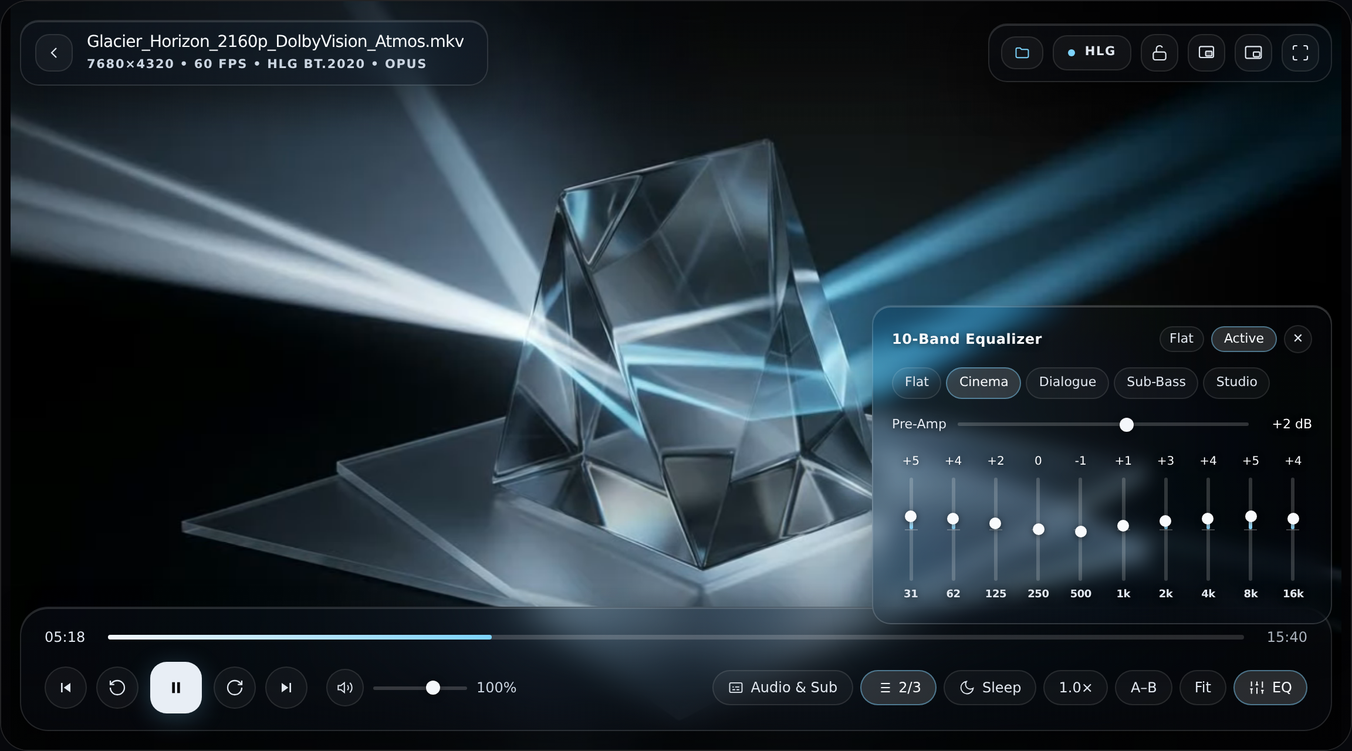
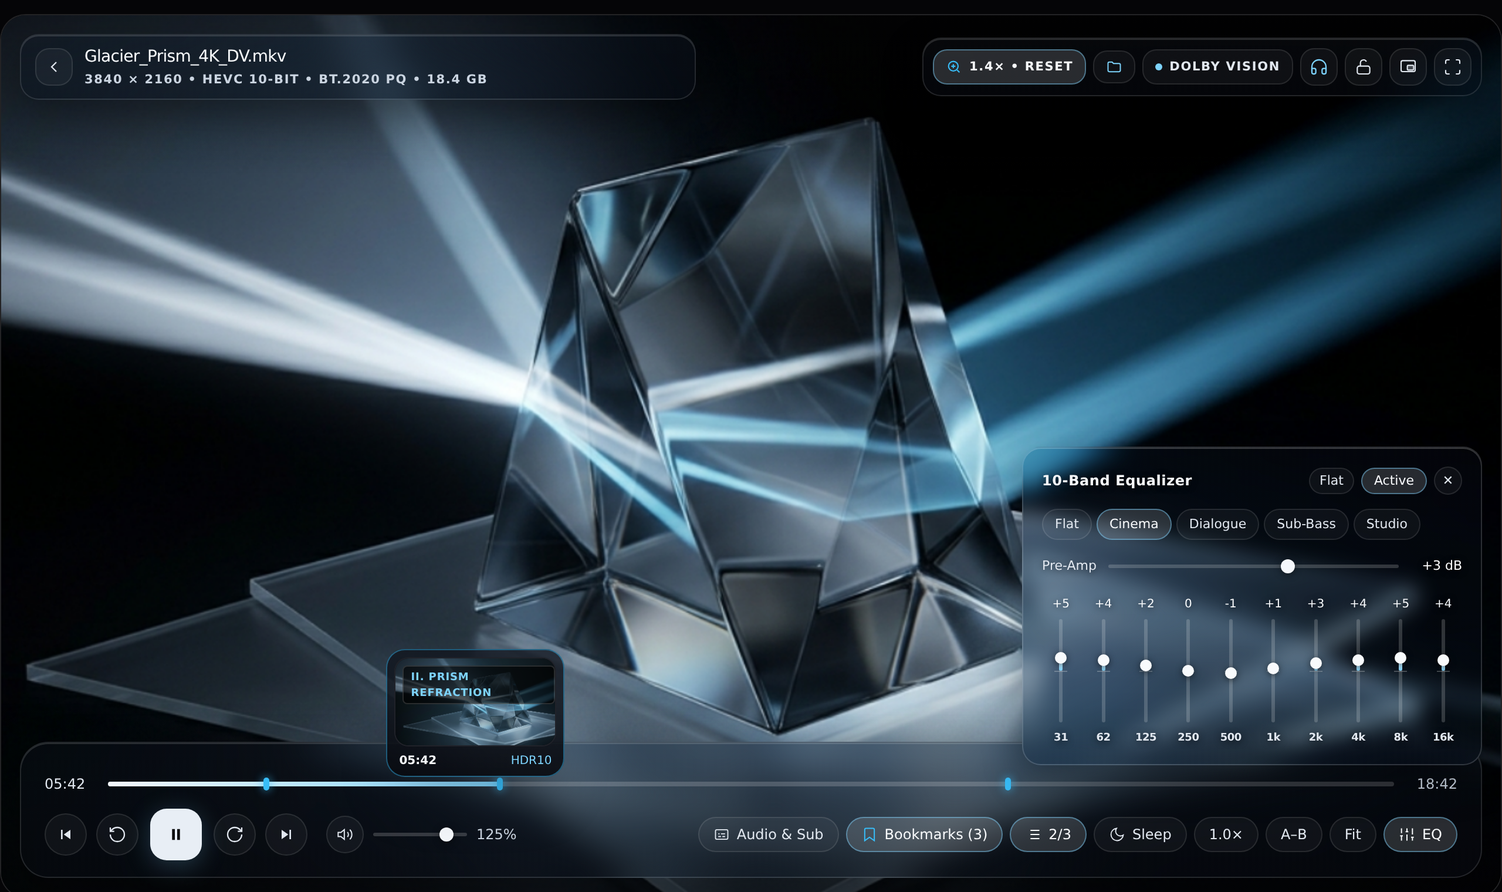
docs: update README and refresh screenshots for v1.1.0

diff --git a/README.md b/README.md
@@ -12,105 +12,122 @@
 [![Latest Release](https://img.shields.io/github/v/release/petrosvassiliou/lumina?label=Release&color=0EA5E9)](https://github.com/petrosvassiliou/lumina/releases/latest)
 [![Platform](https://img.shields.io/badge/Android-8.0%2B%20(API%2026--35)-38BDF8)](https://github.com/petrosvassiliou/lumina/releases/latest)
 [![Engine](https://img.shields.io/badge/VideoLAN-libVLC%204.0-7DD3FC)](https://code.videolan.org/videolan/libvlc-android)
-[![Play Protect](https://img.shields.io/badge/Google%20Play%20Protect-100%25%20Compliant-34D399)](PLAY_STORE_PUBLISHING.md)
+[![Play Protect](https://img.shields.io/badge/Google%20Play%20Protect-100%25%20Verified-34D399)](PRIVACY_POLICY.md)
 
 </div>
 
 ---
 
-**Lumina** (`app.lumina.player`) is a universal, hardware-accelerated HDR media player engineered with **Material 3 Expressive** (*"OLED Smoked Crystal"*) aesthetics and powered by **VideoLAN libVLC 4.0** (`org.videolan.android:libvlc-all:4.0.0-eap29`).
+**Lumina** (`app.lumina.player`) is a universal, hardware-accelerated HDR media player crafted with **Material 3 Expressive** (*"OLED Smoked Crystal"*) design and powered by **VideoLAN libVLC 4.0** (`org.videolan.android:libvlc-all:4.0.0-eap29`).
 
-Designed from the ground up for **Android Smartphones**, **Foldables**, and **Googlebook OS** (desktop/laptop multi-window Android environments), Lumina delivers true wide-color HDR10 / HLG / Dolby Vision playback, lossless 10-band biquad audio processing, local Scoped Storage & SAF folder browsing, and LAN/NAS streaming — with **zero ads, zero telemetry, and 100% Google Play Protect compliance**.
+Built from the ground up for **Android Smartphones**, **Foldables** (**Lumina Tabletop Mode**), and **Googlebook OS** laptops/desktops, Lumina delivers wide-color HDR10 / HDR10+ / HLG / Dolby Vision playback, lossless 10-band biquad audio processing, custom `.m3u` / `.m3u8` playlists, recursive local SAF & LAN/NAS share browsing, and direct **GitHub Releases signed APK updates** — with **zero ads, zero telemetry, and 100% Google Play Protect sideloading compliance**.
 
 ---
 
-## Downloads
+## Downloads (`v1.1.0`)
 
-Grab the latest production-signed APKs directly from **[GitHub Releases (`v1.1.0`)](https://github.com/petrosvassiliou/lumina/releases/latest)**:
+Download production-signed APKs directly from **[GitHub Releases (`v1.1.0`)](https://github.com/petrosvassiliou/lumina/releases/latest)**. Once installed, Lumina can check for and download future signed per-ABI updates directly from **Settings → Check GitHub Releases**.
 
 | Package | Target Devices | Notes |
 | :--- | :--- | :--- |
-| **[`Lumina-v1.1.0-arm64-v8a.apk`](https://github.com/petrosvassiliou/lumina/releases/download/v1.1.0/Lumina-v1.1.0-arm64-v8a.apk)** | Modern Android Smartphones, Foldables & Tablets (64-bit ARM) | **Recommended** for almost all phones & tablets |
-| **[`Lumina-v1.1.0-universal.apk`](https://github.com/petrosvassiliou/lumina/releases/download/v1.1.0/Lumina-v1.1.0-universal.apk)** | All Architectures (`arm64-v8a`, `armeabi-v7a`, `x86_64`, `x86`) | **Universal installer** — works on every device |
-| **[`Lumina-v1.1.0-x86_64.apk`](https://github.com/petrosvassiliou/lumina/releases/download/v1.1.0/Lumina-v1.1.0-x86_64.apk)** | **Googlebook OS** Laptops, Desktops & ChromeOS/PC Emulators | Native 64-bit Intel / AMD hardware decoding |
-| **[`Lumina-v1.1.0-armeabi-v7a.apk`](https://github.com/petrosvassiliou/lumina/releases/download/v1.1.0/Lumina-v1.1.0-armeabi-v7a.apk)** | Legacy 32-bit ARM Android TVs & Older Devices | Lightweight 32-bit ARM build |
-| **[`Lumina-v1.1.0-x86.apk`](https://github.com/petrosvassiliou/lumina/releases/download/v1.1.0/Lumina-v1.1.0-x86.apk)** | Legacy 32-bit Intel / x86 Devices | 32-bit x86 build |
+| **[`Lumina-v1.1.0-arm64-v8a.apk`](https://github.com/petrosvassiliou/lumina/releases/download/v1.1.0/Lumina-v1.1.0-arm64-v8a.apk)** | Modern Android Smartphones, Foldables & Tablets (64-bit ARM) | **Recommended** for almost all phones, foldables & tablets |
+| **[`Lumina-v1.1.0-x86_64.apk`](https://github.com/petrosvassiliou/lumina/releases/download/v1.1.0/Lumina-v1.1.0-x86_64.apk)** | **Googlebook OS** Laptops, Desktops & x86_64 Systems | **Recommended** for Intel / AMD Googlebook OS devices |
+| **[`Lumina-v1.1.0-universal.apk`](https://github.com/petrosvassiliou/lumina/releases/download/v1.1.0/Lumina-v1.1.0-universal.apk)** | All Architectures (`arm64-v8a`, `armeabi-v7a`, `x86_64`, `x86`) | **Universal installer** — single APK for every Android device |
+| **[`Lumina-v1.1.0-armeabi-v7a.apk`](https://github.com/petrosvassiliou/lumina/releases/download/v1.1.0/Lumina-v1.1.0-armeabi-v7a.apk)** | Legacy 32-bit ARM Android TVs & Older Devices | Compact 32-bit ARM build |
+| **[`Lumina-v1.1.0-x86.apk`](https://github.com/petrosvassiliou/lumina/releases/download/v1.1.0/Lumina-v1.1.0-x86.apk)** | Legacy 32-bit Intel / x86 Devices | Compact 32-bit x86 build |
+| **[`SHA256SUMS.txt`](https://github.com/petrosvassiliou/lumina/releases/download/v1.1.0/SHA256SUMS.txt)** | Cryptographic Checksums | Verify APK integrity (`v1`–`v4` APK signatures) |
+
+---
+
+## What's New in `v1.1.0`
+
+- **128 MB Persistent Poster Cache & Live 16:9 Scrub Frame Previews:** Extracts representative HDR/SDR poster thumbnails (skipping black `0:00` intro frames) across **Continue Watching**, **All Videos**, and **Folders**, plus a debounced **16:9 Timeline Scrub & Pointer-Hover Frame Preview** bubble above the seek bar.
+- **Interactive SMB / UPnP / DLNA / FTP Folder Browser & Hardware AES-256 Vault:** Recursively browse NAS shares and media servers with path breadcrumbs (`Media.parseAsync`), backed by hardware `AndroidKeyStore` `AES-256-GCM` credential persistence (`LuminaCredentialVault`).
+- **Custom Playlists (`.m3u` / `.m3u8` Import & Export) + Scene Bookmarks (`B`):** Create, rename, shuffle, import, and export standard UTF-8 `.m3u` / `.m3u8` playlists via SAF, save the active playback queue in one tap, and drop per-video **Scene Bookmarks** with cyan timeline markers.
+- **Interactive `1.0×–4.0×` Video Zoom & Pan + Docked Background Audio Mini-Bar:** Pinch-to-zoom on touchscreens/trackpads, `Ctrl + Mouse Wheel`, or `+` / `-` / `0` on Googlebook OS with a one-tap reset pill, plus continuous background audio playback with a Smoked-Crystal **Now Playing Mini-Bar** docked in the library.
+- **Hardened Playback Engine & Googlebook OS Windowing (`v1.0.4`–`v1.0.10`):**
+  - Automatic 3-tier hardware-to-software decoder fallback (`FULL` → `DECODE` → `SW`) for 10-bit H.264 (`Hi10P`) and non-standard MP4 files so playback never stalls on a blank surface.
+  - Deterministic post-EOF timeline scrubbing, `Space` / Play restart from any seek offset, rapid track switching, and crash-free player-to-library surface detachment.
+  - Native Googlebook OS freeform window fullscreen (`WindowInsetsControllerCompat` + immersive desktop state) and the **Smoked-Crystal Play Prism** brand mark.
 
 ---
 
 ## Screenshots
 
-### Googlebook OS & Desktop Cinema HUD — 10-Band Hardware Equalizer
-![Googlebook OS Cinema Player & 10-Band Equalizer](docs/screenshots/01-googlebook-player-eq.png)
-*Unobstructed HDR10/BT.2020 video surface with sheer Smoked Crystal floating popovers (`Cinema` 10-band biquad EQ + `150%` hardware gain boost) — zero full-screen scrims.*
+### Googlebook OS & Desktop Cinema HUD — 10-Band EQ, Scrub Preview & Video Zoom
+![Googlebook OS Cinema Player, Scrub Preview & 10-Band Equalizer](docs/screenshots/01-googlebook-player-eq.png)
+*Unobstructed BT.2020 HDR10 / Dolby Vision stage with live 16:9 timeline scrub frame preview, cyan scene bookmark ticks, `1.4×` zoom reset pill, and sheer Smoked Crystal `Cinema` 10-band biquad EQ — zero full-screen scrims.*
 
-### Live Glass Subtitles, Audio/Sub Sync & HDR Pipeline
-![Live Glass Subtitles & Audio/Sub Sync](docs/screenshots/02-player-subtitles-hdr.png)
-*External `.srt` / `.vtt` / `.ass` / `.ssa` subtitle loading via SAF, live `±50 ms` audio & subtitle sync controls, configurable font scale, and translucent Glass caption pills.*
+### Per-Video Scene Bookmarks (`B`), Live Glass Subtitles & Zoom Controls
+![Scene Bookmarks, Glass Subtitles & HDR Pipeline](docs/screenshots/02-player-subtitles-hdr.png)
+*Mark key scenes with `B`, jump directly from the sheer Scene Bookmarks popover or cyan timeline ticks, and pair external `.srt` / `.vtt` / `.ass` / `.ssa` subtitles with translucent Glass styling.*
 
 ### Adaptive Multi-Posture: Foldable Tabletop Mode & Smartphone Portrait
 | **Foldable Tabletop Mode (`FoldingFeature`)** | **Smartphone Portrait + Sleep Timer** |
 | :---: | :---: |
 | ![Foldable Tabletop Mode](docs/screenshots/03-foldable-tabletop.png) | ![Smartphone Portrait Mode](docs/screenshots/04-smartphone-portrait.png) |
-| *Automatically pins unobstructed HDR video above the physical hinge crease and places transport controls + Up Next queue on the lower deck.* | *One-handed edge-to-edge OLED layout with vertical brightness/volume gestures, Cinema Touch Lock, and live Sleep Timer.* |
+| *Automatically pins unobstructed HDR video above the physical hinge crease and places transport controls, `Save Queue`, `Background Audio`, and the Playback Queue on the lower deck.* | *One-handed edge-to-edge OLED layout with vertical brightness/volume swipe gestures, Cinema Touch Lock, Scene Bookmarks, and live Sleep Timer.* |
 
 ### Adaptive HDR Media Library & Material 3 Expressive Settings
-| **HDR Format Cards & Local SAF Folder Browser** | **Material 3 Expressive Settings & Play Protect Updates** |
+| **Representative HDR Poster Cards & 6-Tab Navigation** | **Material 3 Expressive Settings & GitHub APK Updater** |
 | :---: | :---: |
 | ![Adaptive HDR Media Library](docs/screenshots/05-library-hdr-cards.png) | ![Material 3 Expressive Settings](docs/screenshots/06-settings-expressive.png) |
-| *Scoped Storage MediaStore indexing + recursive `OpenDocumentTree` folder mounting with Dolby Vision / HDR10+ / HLG / AV1 / HEVC badges.* | *Hardware HDR passthrough, libVLC 4.0 SDR tone-mapping curves (`BT.2390`, `Hable`, `Mobius`, `Reinhard`), 6 languages, and Google Play Protect updates.* |
+| *Persistent 16:9 poster thumbnails across **Continue Watching** and **All Videos**, Dolby Vision / HDR10+ / HLG / AV1 / HEVC format chips, and quick `+` Add-to-Playlist actions.* | *Hardware HDR passthrough, libVLC 4.0 SDR tone-mapping (`BT.2390`, `Hable`, `Mobius`, `Reinhard`), `Continue Audio in Background`, 6 languages, and signed GitHub Releases APK updates.* |
+
+### Recursive LAN / NAS Share Browser (`AES-256` Vault) & `.M3U8` Playlists + Mini-Bar
+| **SMB / UPnP / DLNA / FTP Browser & Hardware AES-256 Vault** | **Custom `.M3U` / `.M3U8` Playlists & Now Playing Mini-Bar** |
+| :---: | :---: |
+| ![LAN Share Browser & AES-256 Credential Vault](docs/screenshots/07-lan-browser-vault.png) | ![Custom M3U8 Playlists & Now Playing Mini-Bar](docs/screenshots/08-playlists-minibar.png) |
+| *Browse NAS shares recursively with breadcrumbs and persist SMB / FTP credentials inside Android's hardware-backed `AES-256-GCM` Keystore vault.* | *Manage, shuffle, import, and export UTF-8 `.m3u` / `.m3u8` playlists while background audio continues in the docked Smoked-Crystal Now Playing Mini-Bar.* |
 
 ---
 
 ## Key Capabilities
 
-### 1. Universal Cinema & True HDR Pipeline
-- **Hardware-Accelerated libVLC 4.0 Engine:** Fault-tolerant asynchronous native decoding across `arm64-v8a`, `armeabi-v7a`, `x86_64`, and `x86` for MKV, MP4, WebM, MOV, AVI, TS/M2TS, FLAC, ALAC, WAV, Opus, and Ogg.
-- **Wide-Color Gamut & HDR Passthrough:** Requests `ActivityInfo.COLOR_MODE_HDR10` (`BT.2020 PQ` / `BT.2020 HLG`) and extended HDR headroom on capable displays, with configurable libVLC 4.0 OpenGL/libplacebo SDR tone-mapping fallback (`ITU-R BT.2390 EETF`, `Hable`, `Mobius`, `Reinhard`).
-- **Live Pipeline Inspector:** Non-blocking sheer popover inspecting active `ColorSpace`, transfer function, hardware decoder mode (`FULL`, `DECODE`, `SW`), and video dimensions.
+### 1. Universal Cinema & Fault-Tolerant True HDR Pipeline
+- **libVLC 4.0 Native Decoding:** Asynchronous hardware-accelerated playback across `arm64-v8a`, `x86_64`, `armeabi-v7a`, and `x86` for MKV, MP4, WebM, MOV, AVI, TS/M2TS, FLAC, ALAC, WAV, Opus, Ogg, and MP3.
+- **Automatic Hardware-to-Software Fallback:** Detects stalled video frames on unsupported 10-bit H.264 (`Hi10P`) or exotic MP4 profiles and seamlessly cascades from `FULL` hardware decoding to `DECODE` and `SW` while preserving current playback position.
+- **Wide-Color Gamut & HDR Passthrough:** Activates `ActivityInfo.COLOR_MODE_HDR10` (`BT.2020 PQ` / `BT.2020 HLG`) on capable displays, with configurable libVLC 4.0 OpenGL/libplacebo SDR tone-mapping fallback (`ITU-R BT.2390 EETF`, `Hable`, `Mobius`, `Reinhard`) and a live **HDR Pipeline Inspector** popover.
 
 ### 2. Adaptive Multi-Posture Architecture & Googlebook OS Power Suite
-- **Googlebook OS Desktop Mode:** Freeform multi-window resizing, cross-app **Drag-and-Drop** (for video, audio, `.m3u`/`.m3u8` playlists, and `.srt`/`.ass`/`.vtt` subtitles), interactive **1.0x–4.0x Video Zoom & Pan** (`Ctrl + Mouse Wheel`, two-finger trackpad pinch, `+`/`-`/`0`), pointer hover timeline frame previews, right-click context menu, hardware keyboard shortcuts, and an Always-on-Top floating mini-player.
-- **Foldable Tabletop Mode (`FoldingFeature`):** Automatically detects half-opened horizontal hinge postures, pinning the unobstructed HDR video surface above the hinge crease and placing transport controls + playback queue on the lower deck.
-- **Smartphone Cinema Mode:** Edge-to-edge OLED layout with vertical brightness/volume swipe gestures, two-finger pinch-to-zoom & pan, double-tap seek, and automatic Android 12+ seamless Picture-in-Picture (`setAutoEnterEnabled`).
+- **Googlebook OS Desktop Mode:** True freeform window fullscreen (`F` or HUD button), cross-app **Drag-and-Drop** (for video, audio, `.m3u`/`.m3u8` playlists, and `.srt`/`.ass`/`.vtt` subtitles), interactive **`1.0×–4.0×` Video Zoom & Pan**, pointer-hover timeline frame previews, right-click context menu, full hardware keyboard shortcuts, and an Always-on-Top floating mini-player.
+- **Foldable Tabletop Mode (`FoldingFeature`):** Automatically detects half-opened horizontal hinge postures via Jetpack WindowManager, pinning the unobstructed HDR video surface above the hinge crease and placing transport controls + queue actions below.
+- **Smartphone Cinema Mode:** Edge-to-edge OLED layout with left-edge brightness and right-edge volume swipe gestures, two-finger pinch-to-zoom & pan, double-tap seek, Cinema Touch Lock (`L`), and seamless Android 12+ Picture-in-Picture (`setAutoEnterEnabled`).
 
-### 3. Material 3 Expressive "OLED Smoked Crystal" Design & Rich Previews
-- **Strictly Zero Yellow Palette:** Pure OLED black (`#050507`), neutral smoked crystal glass (`18%–30%` alpha popovers with zero full-screen scrims), Moonlight Platinum (`#F4F7FB`), Glacier Ice (`#7DD3FC`), and muted rose (`#FB7185`) for error recovery.
-- **128 MB Persistent Poster Cache & Scrub Frame Preview:** Representative poster frames (skipping black `0:00` intro frames) across **Continue Watching**, **Videos**, and **SAF Folder** entries, plus a live debounced 16:9 **Timeline Scrub Frame Preview** bubble above the seek slider.
-- **Non-Intrusive Cinema Controls:** Audio tracks, subtitles, chapters, bookmarks, playback queue, sleep timer, playback speed, and the 10-band equalizer open as compact, translucent floating popovers without pausing or obscuring active playback.
+### 3. Material 3 Expressive "OLED Smoked Crystal" Aesthetics
+- **Strictly Zero Yellow Palette:** Pure OLED black (`#050507`), neutral smoked crystal glass (`18%–30%` alpha floating popovers with zero full-screen scrims), Moonlight Platinum (`#F4F7FB`), Glacier Cyan (`#38BDF8` / `#7DD3FC`), and muted rose (`#FB7185`) for error recovery.
+- **Representative Thumbnails & Scrub Previews:** Two-tier memory + 128 MB disk LRU cache (`LuminaThumbnailRepository`) backed by `MediaMetadataRetriever` (`OPTION_CLOSEST_SYNC` / `OPTION_CLOSEST`) for instant library cards and live timeline scrub previews.
 
-### 4. Playlists, Scene Bookmarks, LAN Share Browser & Background Audio
-- **Interactive SMB / UPnP / DLNA / FTP Folder Browser & Encrypted Vault:** Browse NAS shares and media servers recursively with breadcrumbs via `Media.parseAsync`, backed by hardware `AndroidKeyStore` `AES-256-GCM` credential storage (`LuminaCredentialVault`).
-- **Custom Playlists (`.m3u` / `.m3u8` Import & Export):** Create, rename, shuffle, import, and export `.m3u`/`.m3u8` playlists via SAF, or save the active player queue in one tap.
-- **Per-Video Scene Bookmarks (`B`):** Mark scenes with custom notes, jump directly from the Bookmarks popover, and spot cyan bookmark ticks directly on the timeline.
-- **Background Audio Continuation & Now Playing Mini-Bar:** Keep listening when returning to the library or switching apps, with a docked Smoked-Crystal **Now Playing Mini-Bar** inside the library.
-- **Cinema Touch Lock (`L`), Chapter Selector (`[` / `]`), Sleep Timer & 10-Band EQ:** Full MKV/MP4 embedded chapter navigation, auto-pause sleep timer, live subtitle scale/background/sync, and `31 Hz – 16 kHz` hardware equalizer with up to `150%` gain boost.
+### 4. Playlists, Bookmarks, Encrypted LAN Vault & Audio DSP
+- **Recursive LAN / NAS Share Browser:** mDNS/SSDP discovery + interactive directory traversal for SMB2/3, UPnP/DLNA, and FTP servers, paired with `AndroidKeyStore` `AES-256-GCM` credential storage.
+- **Custom `.M3U` / `.M3U8` Playlists & Per-Video Scene Bookmarks:** Full SAF playlist import/export, one-tap queue saving, and timestamped scene bookmarks persisted in Room v2 (`MIGRATION_1_2`).
+- **Background Audio Continuation, Chapters, Sleep Timer & 10-Band EQ:** Keep listening via foreground `MediaSessionService` + docked Now Playing Mini-Bar, navigate MKV/MP4 chapters (`[` / `]`), set auto-pause sleep timers, fine-tune audio/subtitle sync (`±50 ms`), and sculpt sound with a `31 Hz – 16 kHz` 10-band equalizer and up to `150%` hardware gain boost.
 
-### 5. Play Protect Compliant GitHub Releases Auto-Updates + 6 Languages
-- **Automatic & Manual GitHub Releases APK Updates:** Directly checks `api.github.com/repos/petrosvassiliou/lumina/releases/latest` on launch and from Settings, automatically selects the exact signed `.apk` matching the device CPU architecture (`arm64-v8a`, `x86_64`, `armeabi-v7a`, `x86`, or `universal`), surfaces a Smoked-Crystal update banner, and delegates the HTTPS download to Android's trusted browser — keeping **100% Google Play Protect sideloading compliance** (`REQUEST_INSTALL_PACKAGES` and `MANAGE_EXTERNAL_STORAGE` are never requested).
-- **6 Built-In Languages:** English (`en`), Deutsch (`de`), Italiano (`it`), Français (`fr`), Español (`es`), and Ελληνικά (`el`) via AndroidX Per-App Language Preferences.
+### 5. Direct GitHub Releases Auto-Updates (100% Play Protect Compliant) & 6 Languages
+- **Architecture-Aware Signed APK Updater:** Queries `api.github.com/repos/petrosvassiliou/lumina/releases/latest` on launch and from Settings, matches `Build.SUPPORTED_ABIS` (`arm64-v8a`, `x86_64`, `armeabi-v7a`, `x86`, or `universal`), and hands off HTTPS APK downloads to the system browser — never requesting `REQUEST_INSTALL_PACKAGES` or `MANAGE_EXTERNAL_STORAGE` so Google Play Protect sideloading verification passes with zero warnings.
+- **6 Built-In Locales:** English (`en`), Deutsch (`de`), Italiano (`it`), Français (`fr`), Español (`es`), and Ελληνικά (`el`) via AndroidX Per-App Language Preferences.
 
 ---
 
-## Hardware Keyboard Shortcuts (Googlebook OS & External Keyboards)
+## Hardware Keyboard Shortcuts & Mouse / Trackpad Gestures
 
-| Shortcut | Action |
+| Shortcut / Gesture | Action |
 | :--- | :--- |
-| `Space` | Play / Pause |
+| `Space` | Play / Pause (automatically restarts cleanly if pressed at EOF) |
 | `←` / `→` | Seek backward / forward by configured step (`5s` / `10s` / `15s` / `30s`) |
 | `Shift + ←` / `Shift + →` | Large jump backward / forward (`3×` step) |
 | `[` / `]` | Previous / Next embedded MKV/MP4 chapter |
 | `B` | Bookmark current scene timestamp |
-| `+` / `-` / `0` (or `Ctrl + Wheel`) | Zoom video in / out (`1.0x – 4.0x`) / Reset zoom & pan |
-| `↑` / `↓` | Volume Up / Down (`0% – 150%`) |
-| `L` | Toggle Cinema Touch Lock (locks/unlocks all controls & gestures) |
+| `+` / `-` / `0` | Zoom video in / out (`1.0× – 4.0×`) / Reset zoom & pan |
+| `Ctrl + Wheel` / Two-Finger Pinch | Interactive smooth video zoom & pan |
+| `↑` / `↓` / Mouse Wheel | Volume Up / Down (`0% – 150%`) |
+| `L` | Toggle Cinema Touch Lock (locks/unlocks all HUD controls & gestures) |
 | `O` | Browse Local Video Files |
-| `V` | Toggle Subtitles / Open Audio & Subtitles popover |
-| `A` | Open Audio & Subtitles popover |
+| `V` / `A` | Toggle Subtitles / Open Audio & Subtitles popover |
 | `C` | Cycle Aspect Ratio (`Fit`, `Fill`, `16:9`, `21:9`, `Stretch`) |
 | `M` | Toggle Mute |
-| `F` | Toggle Fullscreen |
-| `Esc` | Dismiss active sheer popover or context menu |
+| `F` / Double-Click Center | Toggle Native Fullscreen (Smartphone, Foldable & Googlebook OS) |
+| `Esc` | Dismiss active sheer popover or desktop context menu |
 
 ---
 
@@ -124,53 +141,53 @@ app/src/main/
 │   │   ├── network/        # LuminaLanDiscoveryManager (recursive SMB/UPnP/FTP browser) & AES-256 Vault
 │   │   ├── playlist/       # M3uPlaylistCodec (.m3u / .m3u8 parser, serializer & drop classifiers)
 │   │   ├── preferences/    # Jetpack DataStore preferences (HDR, EQ, Subtitles, Background Audio)
-│   │   └── repository/     # MediaRepository + LuminaThumbnailRepository (scrub & poster frame cache)
+│   │   └── repository/     # MediaRepository + LuminaThumbnailRepository (128 MB poster & scrub cache)
 │   ├── di/                 # Hilt dependency injection modules
 │   ├── player/
-│   │   ├── engine/         # LuminaPlayerEngine (libVLC 4.0, HDR surface, EQ, Chapters, Sleep Timer)
+│   │   ├── engine/         # LuminaPlayerEngine (libVLC 4.0, HW->SW fallback, EOF state machine, EQ)
 │   │   ├── hdr/            # LuminaHdrController (COLOR_MODE_HDR10 & VLC 4.0 tone-mapping flags)
 │   │   ├── model/          # Immutable LuminaPlayerState, ChapterInfo & SleepTimerState
-│   │   ├── service/        # Foreground MediaSession playback service
+│   │   ├── service/        # Foreground MediaSessionService for background audio & system controls
 │   │   └── ui/             # LuminaVideoSurface (SurfaceView + 1.0x-4.0x zoom & pan transforms)
 │   ├── ui/
-│   │   ├── adaptive/       # Adaptive WindowSizeClass + FoldingFeature posture detector
-│   │   ├── components/     # Smoked Crystal glass surfaces, drag-drop overlay & M3 Expressive controls
-│   │   ├── library/        # Adaptive Videos, Folders, Playlists, Audio, Network, Mini-Bar & Settings
-│   │   ├── player/         # Cinema HUD, Scrub Frame Preview, Bookmarks, Queue & Tabletop split deck
+│   │   ├── adaptive/       # Adaptive WindowSizeClass + FoldingFeature Tabletop posture detector
+│   │   ├── components/     # Smoked Crystal glass surfaces, Play Prism mark & M3 Expressive controls
+│   │   ├── library/        # Videos, Folders, Playlists, Audio, Network Share Browser, Mini-Bar & Settings
+│   │   ├── player/         # Cinema HUD, 16:9 Scrub Preview, Bookmarks, Queue & Tabletop split deck
 │   │   └── theme/          # Zero-yellow OLED Smoked Crystal color tokens, motion & typography
-│   └── update/             # LuminaUpdateManager (GitHub Releases APK + Play Protect updater)
-└── res/                    # Adaptive monochrome icons, network security config & 6-locale strings
+│   └── update/             # LuminaUpdateManager (GitHub Releases per-ABI signed APK updater)
+└── res/                    # Play Prism adaptive icons, network security config & 6-locale strings
 ```
 
 ---
 
-## Building & Signing
+## Building & Signing Release APKs
 
 ### Prerequisites
 - **JDK 17** (Temurin recommended)
 - **Android SDK 36** (`compileSdk = 36`, `targetSdk = 35`, `minSdk = 26`)
 - **Gradle 8.10.2** (`./gradlew`)
 
-### Debug Build & Unit Tests
+### Debug Build, Lint & Unit Tests
 ```bash
 ./gradlew testDebugUnitTest lintDebug assembleDebug
 ```
 
-### Signed Release App Bundle (`.aab`) for Google Play
-Configure your upload keystore via environment variables or `gradle.properties` (never commit `.jks` or `.keystore` files):
+### Signed Per-ABI & Universal Release APKs (GitHub Releases)
+Configure your release keystore via environment variables or `gradle.properties` (never commit `.jks` or `.keystore` files):
 
 ```bash
-export LUMINA_KEYSTORE_PATH="/absolute/path/to/upload-keystore.jks"
+export LUMINA_KEYSTORE_PATH="/absolute/path/to/release-keystore.jks"
 export LUMINA_KEYSTORE_PASSWORD="your-store-password"
 export LUMINA_KEY_ALIAS="lumina-upload"
 export LUMINA_KEY_PASSWORD="your-key-password"
 
-./gradlew bundleRelease
+./gradlew assembleRelease -PenableAbiSplits=true -PextractApkNativeLibs=true
 ```
 
-The signed Play Store bundle is output to `app/build/outputs/bundle/release/app-release.aab` with APK Signature Schemes v1–v4 and uncompressed page-aligned native libraries enabled. For automated GitHub Releases & Google Play Console Track deployment via Fastlane metadata, see [PLAY_STORE_PUBLISHING.md](PLAY_STORE_PUBLISHING.md).
+Signed release APKs (`arm64-v8a`, `armeabi-v7a`, `x86_64`, `x86`, and `universal`) are output under `app/build/outputs/apk/release/` with APK Signature Schemes `v1`–`v4` enabled. Pushing a `v*` tag automatically builds, signs, checksums (`SHA256SUMS.txt`), and publishes all 5 APKs via `.github/workflows/release-publish.yml`.
 
 ---
 
 ## Privacy & Security
-Lumina operates strictly offline and on user-specified local/LAN URIs with zero analytics, zero crash-reporting SDKs, and zero advertising identifiers. See [PRIVACY_POLICY.md](PRIVACY_POLICY.md) for the complete Google Play Data Safety declaration.
+Lumina operates strictly offline and on user-specified local/LAN URIs with zero analytics, zero crash-reporting SDKs, and zero advertising identifiers. Network share credentials are encrypted exclusively on-device using hardware-backed `AndroidKeyStore` `AES-256-GCM`. See [PRIVACY_POLICY.md](PRIVACY_POLICY.md) for full details.
